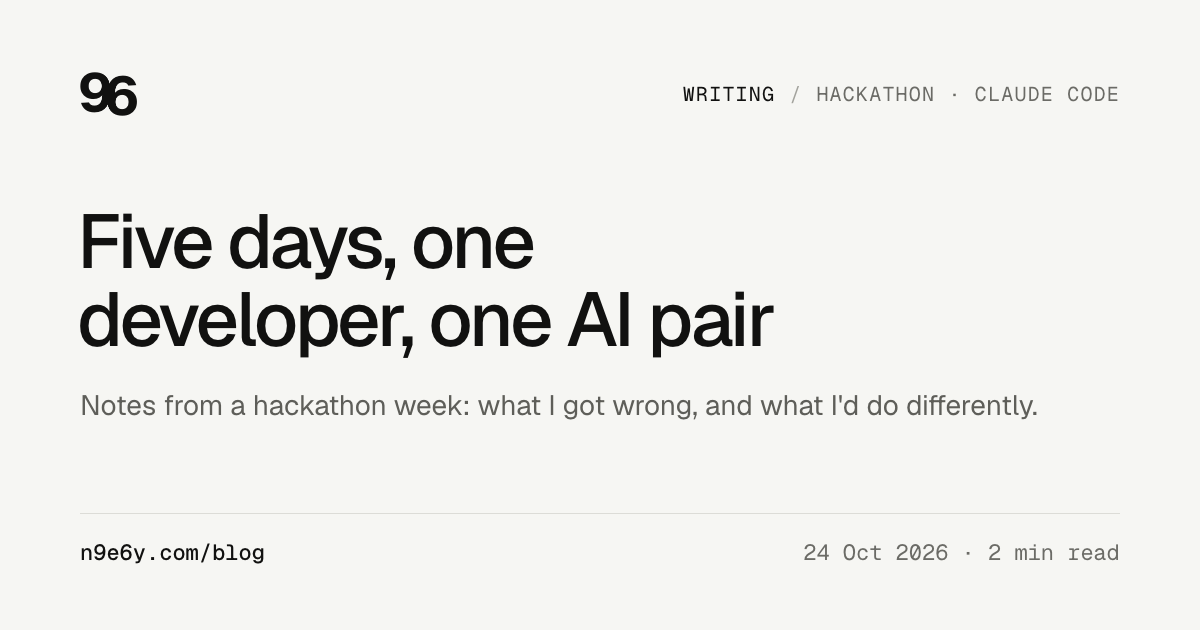
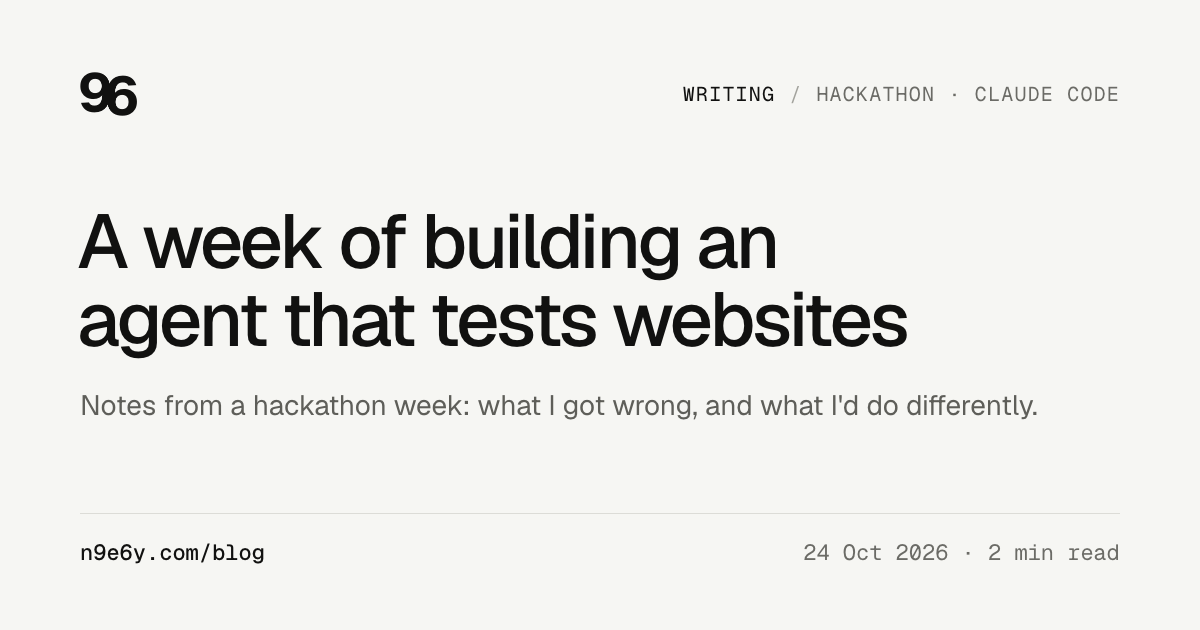
refactor: update references and titles for "A week of building an agent that tests websites" across multiple files

Changed region(s): [[0.0617, 0.3317, 0.7708, 0.573]]

diff --git a/writing/building-test-badger.html b/writing/building-test-badger.html
@@ -3,20 +3,20 @@
 <head>
 <meta charset="UTF-8" />
 <meta name="viewport" content="width=device-width, initial-scale=1" />
-<title>Five days, one developer, one AI pair — Nima Yavari</title>
+<title>A week of building an agent that tests websites — Nima Yavari</title>
 <meta name="description" content="Notes from a hackathon week: what I got wrong, and what I'd do differently." />
 <link rel="canonical" href="https://n9e6y.com/writing/building-test-badger.html" />
 <meta name="author" content="Nima Yavari" />
 <meta property="og:type" content="article" />
 <meta property="og:site_name" content="Nima Yavari" />
 <meta property="og:locale" content="en_US" />
-<meta property="og:title" content="Five days, one developer, one AI pair — Nima Yavari" />
+<meta property="og:title" content="A week of building an agent that tests websites — Nima Yavari" />
 <meta property="og:description" content="Notes from a hackathon week: what I got wrong, and what I'd do differently." />
 <meta property="og:url" content="https://n9e6y.com/writing/building-test-badger.html" />
 <meta property="og:image" content="https://n9e6y.com/assets/og/building-test-badger.png" />
 <meta property="og:image:width" content="1200" />
 <meta property="og:image:height" content="630" />
-<meta property="og:image:alt" content="Five days, one developer, one AI pair — Nima Yavari" />
+<meta property="og:image:alt" content="A week of building an agent that tests websites — Nima Yavari" />
 <meta property="article:published_time" content="2026-10-24" />
 <meta property="article:author" content="https://n9e6y.com/about.html" />
 <meta property="article:tag" content="Hackathon" />
@@ -30,7 +30,7 @@
   "@graph": [
     {
       "@type": "BlogPosting",
-      "headline": "Five days, one developer, one AI pair",
+      "headline": "A week of building an agent that tests websites",
       "description": "Notes from a hackathon week: what I got wrong, and what I'd do differently.",
       "url": "https://n9e6y.com/writing/building-test-badger.html",
       "datePublished": "2026-10-24",
@@ -48,7 +48,7 @@
       "itemListElement": [
         { "@type": "ListItem", "position": 1, "name": "Home", "item": "https://n9e6y.com/" },
         { "@type": "ListItem", "position": 2, "name": "Writing", "item": "https://n9e6y.com/blog.html" },
-        { "@type": "ListItem", "position": 3, "name": "Five days, one developer, one AI pair", "item": "https://n9e6y.com/writing/building-test-badger.html" }
+        { "@type": "ListItem", "position": 3, "name": "A week of building an agent that tests websites", "item": "https://n9e6y.com/writing/building-test-badger.html" }
       ]
     }
   ]
@@ -120,7 +120,7 @@
   <div class="wrap">
     <header class="art-head" style="padding-top:clamp(48px,8vw,96px)" data-reveal>
       <div class="eyebrow"><a href="/blog.html">← Writing</a><span class="tag">Hackathon</span><span class="tag">Claude Code</span><span>24 Oct 2026</span><span>2 min read</span></div>
-      <h1>Five days, one developer, one AI pair</h1>
+      <h1>A week of building an agent that tests websites</h1>
       <p class="deck">Notes from a hackathon week: what I got wrong, and what I'd do differently.</p>
       <hr class="rule" />
     </header>

diff --git a/blog.html b/blog.html
@@ -33,7 +33,7 @@
   "blogPost": [
     {
       "@type": "BlogPosting",
-      "headline": "Five days, one developer, one AI pair",
+      "headline": "A week of building an agent that tests websites",
       "description": "Notes from a hackathon week: what I got wrong, and what I'd do differently.",
       "url": "https://n9e6y.com/writing/building-test-badger.html",
       "datePublished": "2026-10-24",
@@ -150,7 +150,7 @@
 
     <div id="view-index" class="posts">
       <a class="post-row" data-tags="Hackathon|Claude Code" data-umami-event="post-building-test-badger" href="/writing/building-test-badger.html">
-        <span class="txt"><span class="date">24 Oct 2026</span><b>Five days, one developer, one AI pair</b><span class="one">Notes from a hackathon week: what I got wrong, and what I'd do differently.</span><span class="tags"><span class="tag">Hackathon</span><span class="tag">Claude Code</span></span></span>
+        <span class="txt"><span class="date">24 Oct 2026</span><b>A week of building an agent that tests websites</b><span class="one">Notes from a hackathon week: what I got wrong, and what I'd do differently.</span><span class="tags"><span class="tag">Hackathon</span><span class="tag">Claude Code</span></span></span>
       </a>
       <a class="post-row" data-tags="Dataset|Persian NLP" data-umami-event="post-dehkhoda-dictionary" href="/writing/dehkhoda-dictionary.html">
         <span class="txt"><span class="date">16 Oct 2026</span><b>Turning the Dehkhoda Dictionary into Structured Data</b><span class="one">The Persian Dehkhoda Dictionary is now an open dataset on Hugging Face and Kaggle.</span><span class="tags"><span class="tag">Dataset</span><span class="tag">Persian NLP</span></span></span>
@@ -160,7 +160,7 @@
     <div id="view-grid" class="cards" hidden>
       <a class="card" data-tags="Hackathon|Claude Code" data-umami-event="post-building-test-badger" href="/writing/building-test-badger.html">
         <span class="top"><span>24 Oct 2026</span><span>↗</span></span>
-        <span class="hd"><b>Five days, one developer, one AI pair</b><span class="one">Notes from a hackathon week: what I got wrong, and what I'd do differently.</span></span>
+        <span class="hd"><b>A week of building an agent that tests websites</b><span class="one">Notes from a hackathon week: what I got wrong, and what I'd do differently.</span></span>
         <span class="tags"><span class="tag">Hackathon</span><span class="tag">Claude Code</span></span>
       </a>
       <a class="card" data-tags="Dataset|Persian NLP" data-umami-event="post-dehkhoda-dictionary" href="/writing/dehkhoda-dictionary.html">

diff --git a/work/test-badger.html b/work/test-badger.html
@@ -646,7 +646,7 @@
         <section id="next">
           <h2 class="h2">What I'd build next</h2>
           <div class="prose"><p>The external benchmark wrote the roadmap: give icon-only buttons a name in the snapshot, merge the same bug found by two scenarios, add more flow templates (login, contact form, booking, free-form goal), and schedule runs before every release.</p></div>
-          <p class="closing"><i>Built with Claude Code as my pair programmer, from a written spec and a decision log I kept up to date the whole way. The story of how that worked is in the companion post: <a data-umami-event="writeup-post" href="/writing/building-test-badger.html">Five days, one developer, one AI pair</a>.</i></p>
+          <p class="closing"><i>Built with Claude Code as my pair programmer, from a written spec and a decision log I kept up to date the whole way. The story of how that worked is in the companion post: <a data-umami-event="writeup-post" href="/writing/building-test-badger.html">A week of building an agent that tests websites</a>.</i></p>
         </section>
       </article>
     </div>

diff --git a/index.html b/index.html
@@ -169,9 +169,9 @@
           <span class="one">An AI agent that tests a website's signup and checkout flows in a real browser and reports bugs with evidence.</span>
         </a>
         <a class="pick" data-umami-event="home-post-building-test-badger" href="/writing/building-test-badger.html">
-          <span class="img"><img src="/assets/og/building-test-badger.png" alt="Five days, one developer, one AI pair" loading="lazy" /></span>
+          <span class="img"><img src="/assets/og/building-test-badger.png" alt="A week of building an agent that tests websites" loading="lazy" /></span>
           <span class="eyebrow">Latest writing · 24 Oct 2026</span>
-          <span class="t"><b>Five days, one developer, one AI pair</b><span class="go">→</span></span>
+          <span class="t"><b>A week of building an agent that tests websites</b><span class="go">→</span></span>
           <span class="one">Notes from a hackathon week: what I got wrong, and what I'd do differently.</span>
         </a>
       </div>
